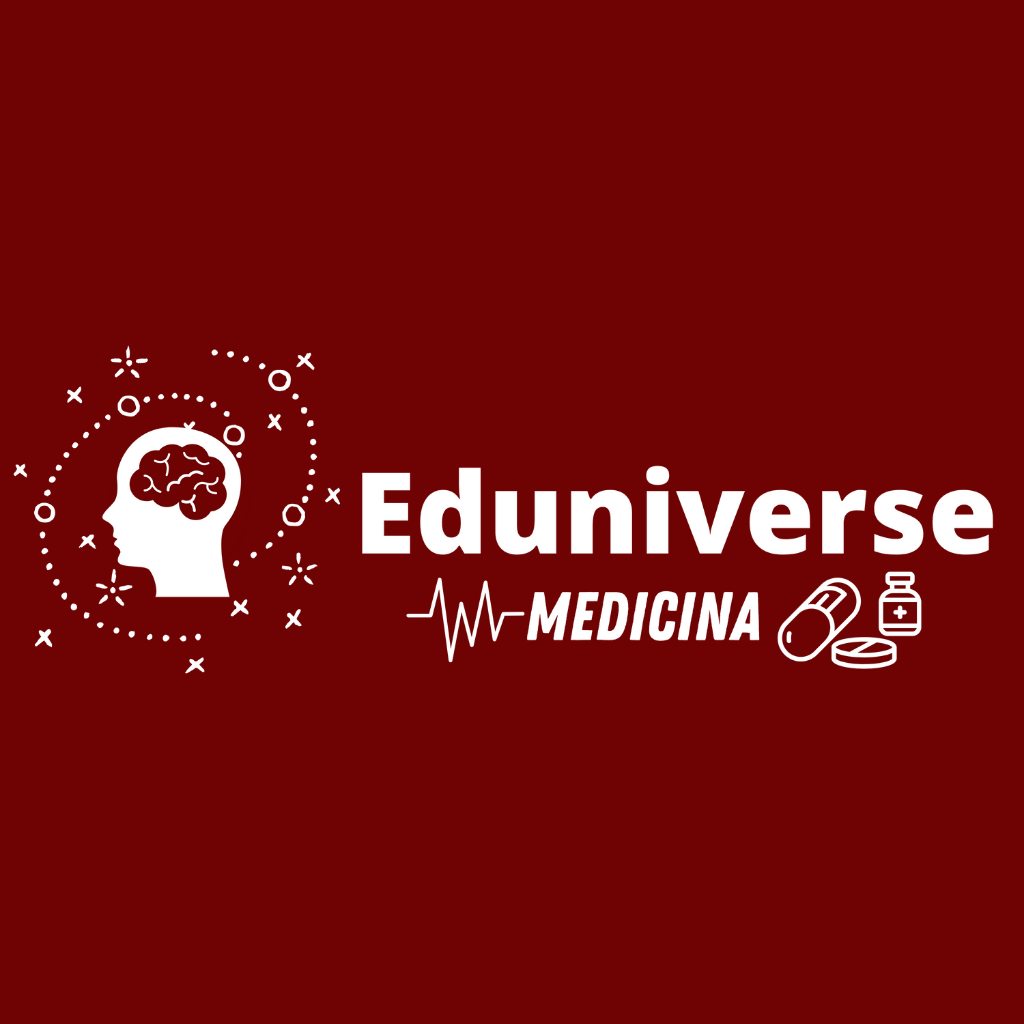
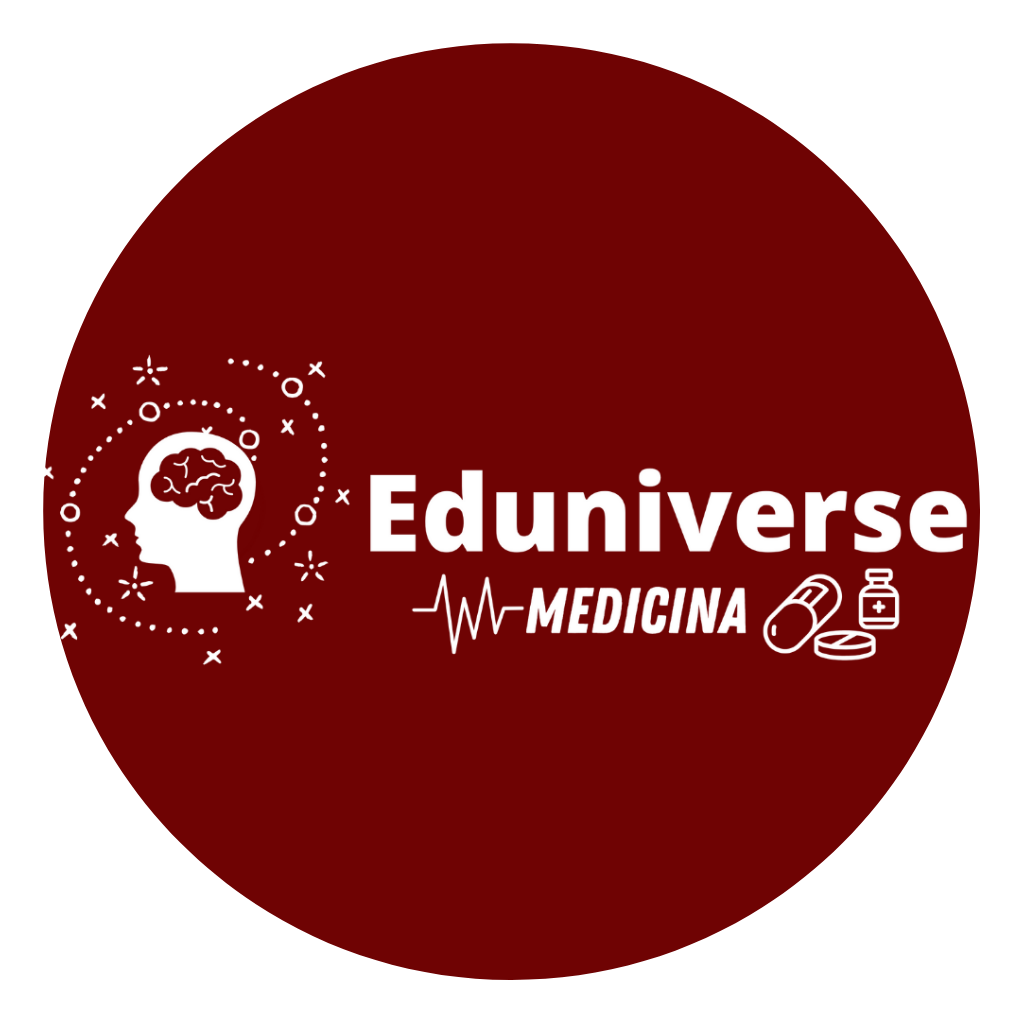
splash sreeme

diff --git a/lib/src/pages/libros_medicina.dart b/lib/src/pages/libros_medicina.dart
@@ -14,8 +14,8 @@ class _LibrosAnatomiaState extends State<LibrosAnatomia> {
   Widget build(BuildContext context) {
     return clasesdelibros(
         libros(
-          NetworkImage(
-              "https://res.cloudinary.com/lucianogutierrez/image/upload/v1635362453/BOOKS%20TEST/Ndov90ooio_mgbsxh.png"),
+          AssetImage(
+              "assets/ana.png"),
           () async {
             const url =
                 "https://drive.google.com/file/d/1NY71olSGroOhFdip8UJNImUMyBhtr-Ek/view";
@@ -53,8 +53,8 @@ class _LibrosBiologiaState extends State<LibrosBiologia> {
   Widget build(BuildContext context) {
     return clasesdelibros(
         libros(
-          NetworkImage(
-              "https://res.cloudinary.com/lucianogutierrez/image/upload/v1635431026/BOOKS%20TEST/image_2_lvzy78.png"),
+          AssetImage(
+              "assets/bio.png"),
           () async {
             const url =
                 "https://drive.google.com/file/d/1Nay4nP1Cp-8VyHUzMOO3Hz13vI5X1TJ8/view?usp=sharing";
@@ -92,8 +92,8 @@ class _LibrosBioquimicaState extends State<LibrosBioquimica> {
   Widget build(BuildContext context) {
     return clasesdelibros(
         libros(
-          NetworkImage(
-              "https://res.cloudinary.com/lucianogutierrez/image/upload/v1635431239/BOOKS%20TEST/image_3_njwei1.png"),
+          AssetImage(
+              "assets/bioqui.png"),
           () async {
             const url =
                 "https://drive.google.com/file/d/1KF7NvsQAUK5eUJt18wk5tinyvB1Ot8cM/view";

diff --git a/lib/src/pages/libros_animations.dart b/lib/src/pages/libros_animations.dart
@@ -12,8 +12,8 @@ class _LibrosMatematicaState extends State<LibrosMatematica> {
   Widget build(BuildContext context) {
     return clasesdelibros(
         libros(
-          NetworkImage(
-              "https://res.cloudinary.com/lucianogutierrez/image/upload/v1634756675/BOOKS%20TEST/prueba_l60jdc.png"),
+          AssetImage(
+                    "assets/precalculo.png"),
           () async {
             const url =
                 "https://drive.google.com/file/d/13u7WmPzZEHWzidxEGwgEn5eWUoj7JSSg/view";
@@ -49,8 +49,8 @@ class _LibrosFisicaState extends State<LibrosFisica> {
   Widget build(BuildContext context) {
     return clasesdelibros(
         libros(
-          NetworkImage(
-              "https://res.cloudinary.com/lucianogutierrez/image/upload/v1634843815/BOOKS%20TEST/Ndov90ooio_k95neg.png"),
+          AssetImage(
+              "assets/fisica1.png"),
           () async {
             const url =
                 "https://drive.google.com/file/d/1taBCihDpFM98z7OaMSRVc13SaujEwGjm/view?usp=sharing";
@@ -86,8 +86,8 @@ class _LibrosQuimicaState extends State<LibrosQuimica> {
   Widget build(BuildContext context) {
     return clasesdelibros(
       libros(
-        NetworkImage(
-            "https://res.cloudinary.com/lucianogutierrez/image/upload/v1634843809/BOOKS%20TEST/Novo_oricsl.png"),
+        AssetImage(
+            "assets/quimica1.png"),
         () async {
           const url =
               "https://drive.google.com/file/d/16gNPzpAsUjERKyYwTFEVGZjmz9RTpNyG/view";

diff --git a/web/splash/style.css b/web/splash/style.css
@@ -1,0 +1,43 @@
+body, html {
+  margin:0;
+  height:100%;
+  background: #000000;
+  background-image: url("img/light-background.png");
+  background-size: 100% 100%;
+}
+
+.center {
+  margin: 0;
+  position: absolute;
+  top: 50%;
+  left: 50%;
+  -ms-transform: translate(-50%, -50%);
+  transform: translate(-50%, -50%);
+}
+
+.contain {
+  display:block;
+  width:100%; height:100%;
+  object-fit: contain;
+}
+
+.stretch {
+  display:block;
+  width:100%; height:100%;
+}
+
+.cover {
+  display:block;
+  width:100%; height:100%;
+  object-fit: cover;
+}
+
+@media (prefers-color-scheme: dark) {
+  body {
+    margin:0;
+    height:100%;
+    background: #000000;
+    background-image: url("img/dark-background.png");
+    background-size: 100% 100%;
+  }
+}

diff --git a/web/index.html b/web/index.html
@@ -28,6 +28,7 @@
 
   <title>eduniverse_medicina</title>
   <link rel="manifest" href="manifest.json">
+  <link rel="stylesheet" type="text/css" href="splash/style.css">
 </head>
 <body>
   <!-- This script installs service_worker.js to provide PWA functionality to
